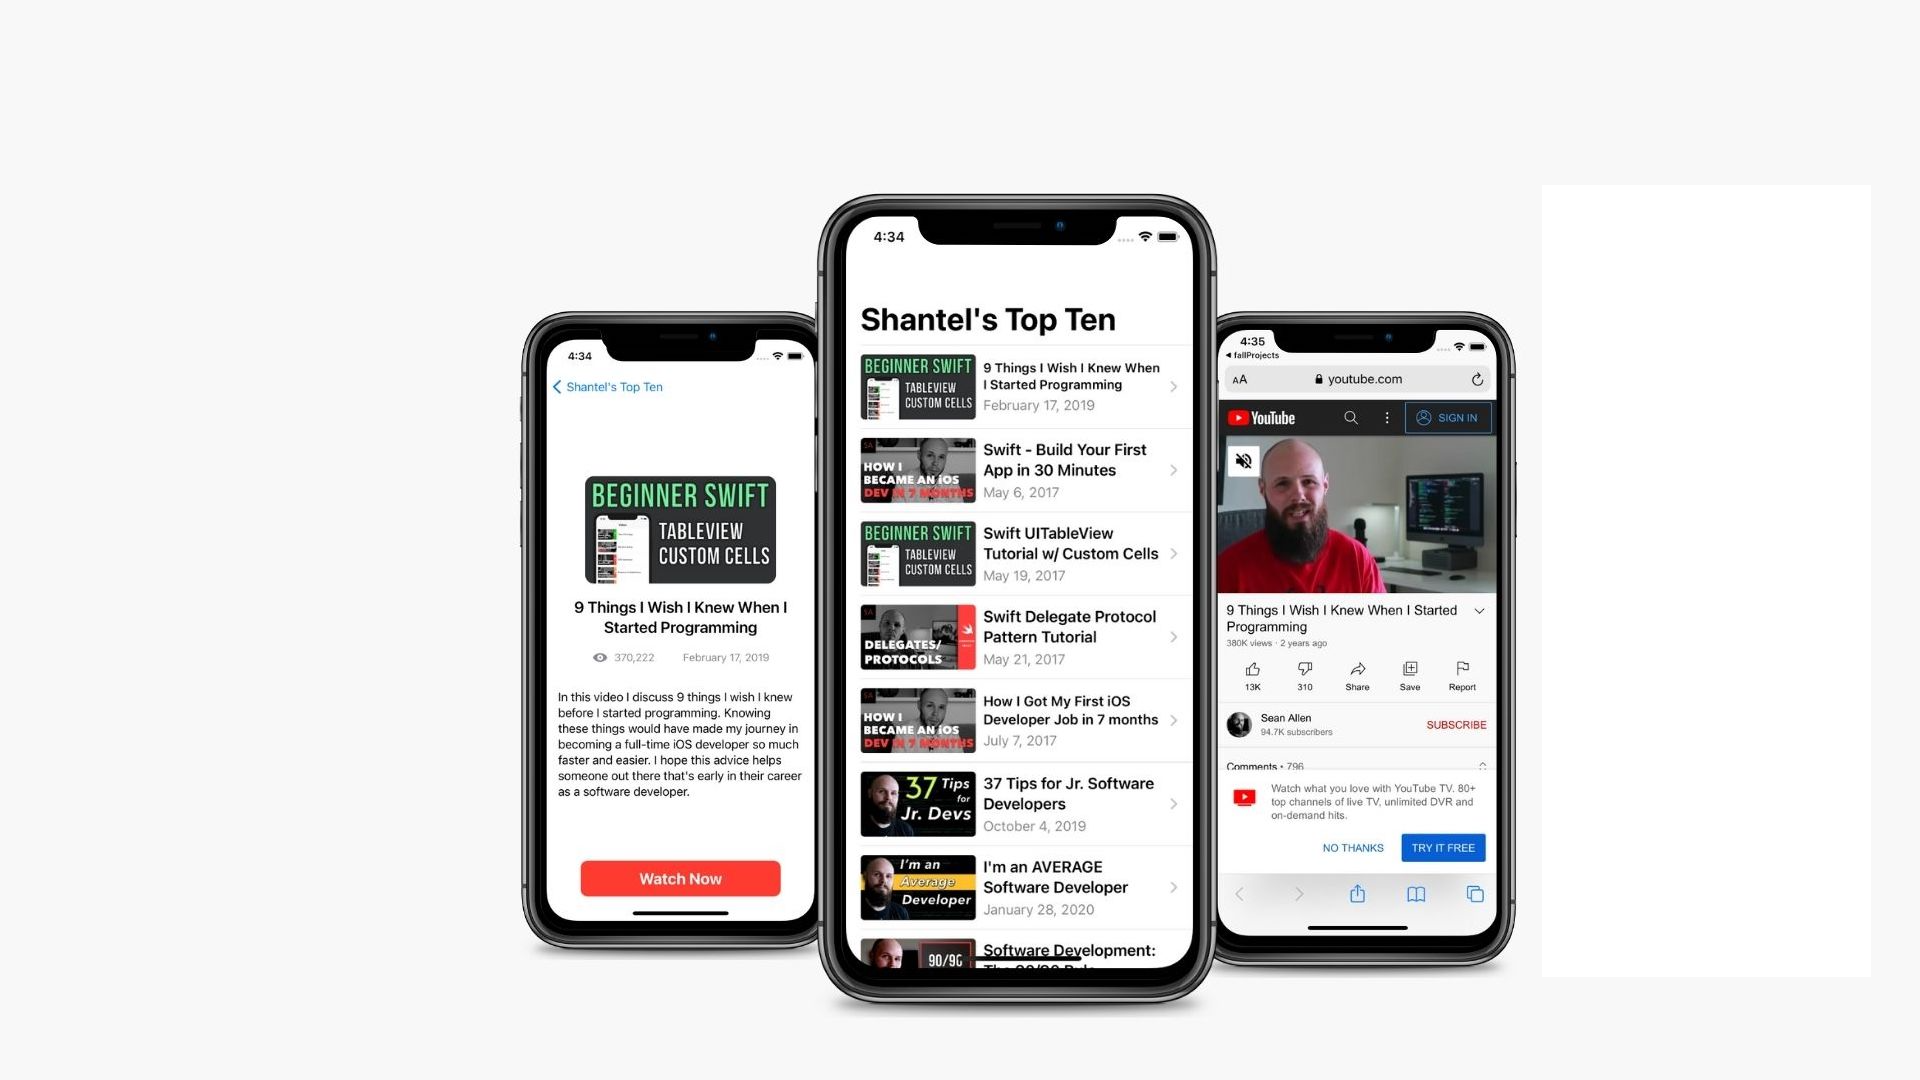
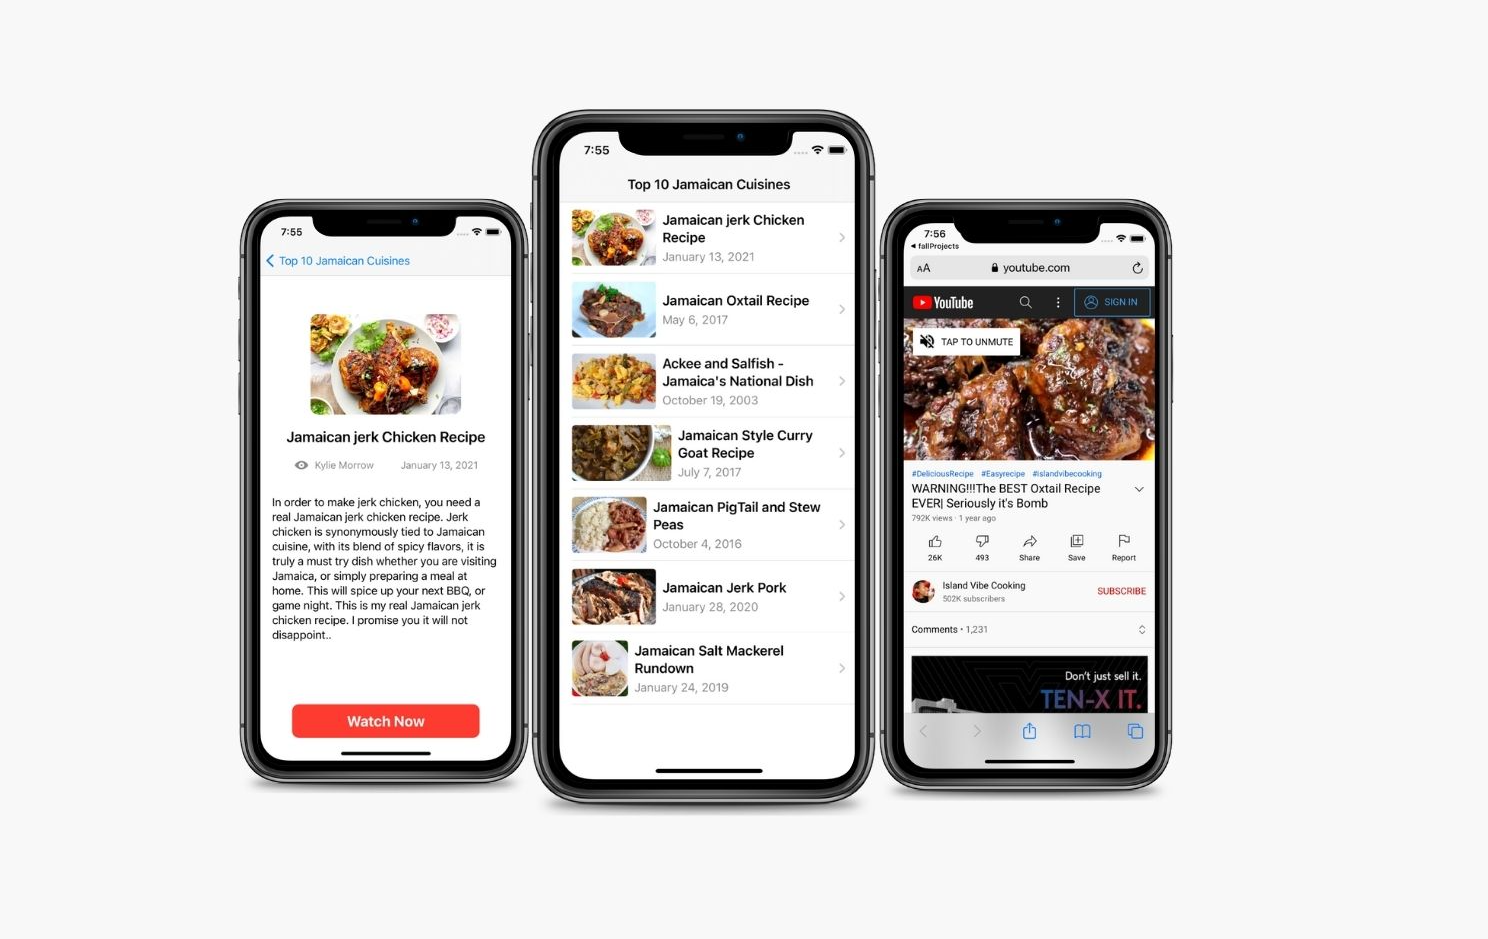
Chnages to iOS webpage and about me

Changed region(s): [[0.1546, 0.0927, 0.8038, 0.9574]]

diff --git a/index.html b/index.html
@@ -56,12 +56,27 @@
                 </div>
                 <div class="column right">
                     <div class="text">I'm Shantel T. and I'm a <span class="typing-2"></span></div>
-                    <p>I am currently a rising junior at Benedict College, pursuing a Bachelors's Degree in Computer Science with a minor in Business Administration. Over the years,
+                    <p>I am currently a rising junior at Benedict College, pursuing a Bachelors Degree in Computer Science with a minor in Business Administration. Over the years,
                       I have gained a vast knowledge of programming and interpersonal skills, which I will use on my journey to becoming a Software Engineer.</p>
                       <br>
-                      <div class="text">Awards and achievements</div>
-                      <p>I am currently a rising junior at Benedict College, pursuing a Bachelors's Degree in Computer Science with a minor in Business Administration. Over the years,
-                        I have gained a vast knowledge of programming and interpersonal skills, which I will use on my journey to becoming a Software Engineer.</p>
+                      <div class="text">Extracurricular Activities and Awards</div>
+                      <p>These are activities that I am currently involved in and around Benedict College.</p>
+                      <br>
+                        <ul >
+                            <li> Vice President of Benedict College International Student Association  </li>
+                            <li> Society of Women Engineers </li>
+                            <li> Google Developer Student Club</li>
+                            <li> Passport to College Mentor</li>
+                            <li> Tutor </li>
+                        </ul>
+                        <br>
+                    <div class="text">Awards and Achievements </div>
+                        <ul>
+                            <li> Benedict College Founders Scholarships  </li>
+                            <li> Honors Student Award </li>
+                            <li> President Trophy Recipient </li>
+                            <li> Grace Hopper Student Scholarship Recipient </li>
+                        </ul>
                     <a href="https://drive.google.com/file/d/1xG5BYpljiNQ9wy0NIwxiQ1RSCanWoxAw/view?usp=sharing">Download Resume</a>
                 </div>
             </div>
@@ -87,61 +102,62 @@
                             <span>python</span>
                             <!--span>70%</span-->
                         </div>
-                        <!--div class="line python"></div-->
+                        <div class="line python"></div>
                     </div>
 
                     <div class="bars">
                         <div class="info">
                             <span>Java</span>
-                            <!--span>50%</span-->
+                            <span>50%</span>
                         </div>
-                        <!--div class="line Java"></div-->
+                        <div class="line Java"></div>
                     </div>
 
                     <div class="bars">
                         <div class="info">
                             <span>C++</span>
-                            <!--span>70%</span-->
+                            <span>70%</span>
                         </div>
-                        <!--div class="line C"></div-->
+                        <div class="line C"></div>
                     </div>
                     <div class="bars">
                         <div class="info">
                             <span>JavaScript</span>
-                            <!--span>50%</span-->
+                            <span>50%</span>
                         </div>
-                        <!--div class="line js"></div-->
+                        <div class="line js"></div>
                     </div>
                     <div class="bars">
                         <div class="info">
                             <span>HTML</span>
-                            <!--span>70%</span-->
+                            <span>70%</span>
                         </div>
-                        <!--div class="line HTML"></div-->
+                        <div class="line HTML"></div>
                     </div>
-                    <div class="bars">
-                        <div class="info">
-                            <span>SwiftUI </span>
-                            <!--span>70%</span-->
-                        </div>
-                        <!--div class="line HTML"></div-->
-                    </div>
-                     <div class="bars">
-                        <div class="info">
-                            <span>Swift </span>
-                            <!--span>60%</span-->
-                        </div>
-                        <!--div class="line HTML"></div-->
-                    </div>
+
                     <div class="bars">
                         <div class="info">
                             <span>CSS</span>
-                            <!--span>70%</span-->
+                            <span>70%</span>
                         </div>
-                        <!--div class="line css"></div-->
+                        <div class="line css"></div>
+                    </div>
+                    <div class="bars">
+                        <div class="info">
+                            <span>Swift </span>
+                            <span>60%</span>
+                        </div>
+                        <div class="line HTML"></div>
+                    </div>
+
+                    <div class="bars">
+                        <div class="info">
+                            <span>SwiftUI </span>
+                            <span>70%</span>
+                        </div>
+                        <div class="line HTML"></div>
                     </div>
                 </div>
-
                 <div class="column left">
 
                 </div>
@@ -152,31 +168,31 @@
                     <div class="bars">
                         <div class="info">
                             <span>MySQL</span>
-                            <!--span>70%</span-->
+                            <span>70%</span>
                         </div>
-                        <!--div class="line sql"></div-->
+                        <div class="line sql"></div>
                     </div>
 
                     <div class="bars">
                         <div class="info">
                             <span>UX Design</span>
-                            <!--span>50%</span-->
+                            <span>50%</span>
                         </div>
-                        <!--div class="line ux"></div-->
+                        <div class="line ux"></div>
                     </div>
                     <div class="bars">
                         <div class="info">
                             <span>Django</span>
-                            <!--span >70%</span-->
+                            <span >70%</span>
                         </div>
-                        <!--div class="line dj"></div-->
+                        <div class="line dj"></div>
                     </div>
                     <div class="bars">
                         <div class="info">
                             <span>Junite</span>
-                            <!--span>20%</span-->
+                            <span>20%</span>
                         </div>
-                        <!--div class="line ju"></div-->
+                        <div class="line ju"></div>
                     </div>
 
                 </div>
@@ -193,9 +209,9 @@
                     <div class="box">
                         <i class="fas fa-code"></i>
                         <div class="text">iOS Development Projects</div>
-                        <p>This project utilizes Java and MySQL to create a website that allows users to track and manage their projects.</p>
+                        <p> This displays my current iOS Development projects, from weather app to cuisine App.</p>
                         <br>  <br>  <br>
-                        <a href="file:///Users/shantelthomas/Downloads/MyPortfolio/iOSApp.html#">View project</a>
+                        <a href="https://shantelat.github.io/MyPortfolio/iOSApp.html">View project</a>
                     </div>
                 </div>
                 <div class="card">

diff --git a/iOSApp.html b/iOSApp.html
@@ -21,7 +21,8 @@
         <div class="max-width">
             <div class="logo"><a href="#">iOS <span>Development</span></a></div>
             <ul class="menu">
-                <!--a href="https://shantelat.github.io/MyPortfolio/#projects">Back to Portfolio</a-->
+                <!--li><a href="#about" class="menu-btn">Weather App</a></li>
+                <li><a href="#abouttwo" class="menu-btn">Top Ten App</a></li-->
             </ul>
             <div class="menu-btn">
                 <i class="fas fa-bars"></i>
@@ -48,37 +49,32 @@
             <div class="about-content">
                 <div class="column right">
                     <div class="text">Weather App  <span class="typing-2"></span></div>
-                    <p>I am currently a rising junior at Benedict College, pursuing a Bachelors's Degree in Computer Science with a minor in Business Administration. Over the years,
-                      I have gained a vast knowledge of programming and interpersonal skills, which I will use on my journey to becoming a Software Engineer.</p>
+                    <p> This weather app displays a given city's current weather and temperature and gives the following week's forecast.
+                        The app allows for the option to change between light and dark mode.</p>
                       <br>
-                      <div class="text">Awards and achievements</div>
-                      <p>I am currently a rising junior at Benedict College, pursuing a Bachelors's Degree in Computer Science with a minor in Business Administration. Over the years,
-                        I have gained a vast knowledge of programming and interpersonal skills, which I will use on my journey to becoming a Software Engineer.</p>
-                    <a href="https://drive.google.com/file/d/1xG5BYpljiNQ9wy0NIwxiQ1RSCanWoxAw/view?usp=sharing">Download Resume</a>
+                    <a href="#about">Watch Demo</a>
                 </div>
                 <div class="column left">
-                    <img src="images/Ten.png" alt="">
+                    <img src="images/5.jpg" alt="">
                 </div>
             </div>
         </div>
     </section>
 
-      <section class="about" id="about">
+      <section class="abouttwo" id="abouttwo">
         <div class="max-width">
-            <h2 class="title">Weather App</h2>
-            <div class="about-content">
+            <h2 class="title">Top 10 Jamaican Cuisines</h2>
+            <div class="abouttwo-content">
                 <div class="column left">
-                    <img src="images/Ten.png" alt="">
+                    <img src="images/ten.jpg" alt="">
                 </div>
                 <div class="column right">
-                    <div class="text">Weather App  <span class="typing-2"></span></div>
-                    <p>I am currently a rising junior at Benedict College, pursuing a Bachelors's Degree in Computer Science with a minor in Business Administration. Over the years,
-                      I have gained a vast knowledge of programming and interpersonal skills, which I will use on my journey to becoming a Software Engineer.</p>
+                    <div class="text">Shantel's Top 10 Jamaican Cuisines App  <span class="typing-2"></span></div>
+                    <p>  This is a meal recommendation app that displays Shantel's top ten recommended Jamaican cuisine.
+                        Once you click on each meal, it will populate a page the shares more about each meal, including
+                        a link to a Youtube tutorial on how to prepare each meal.</p>
                       <br>
-                      <div class="text">Awards and achievements</div>
-                      <p>I am currently a rising junior at Benedict College, pursuing a Bachelors's Degree in Computer Science with a minor in Business Administration. Over the years,
-                        I have gained a vast knowledge of programming and interpersonal skills, which I will use on my journey to becoming a Software Engineer.</p>
-                    <a href="https://drive.google.com/file/d/1xG5BYpljiNQ9wy0NIwxiQ1RSCanWoxAw/view?usp=sharing">Download Resume</a>
+                    <a href="#abouttwo">Watch Demo</a>
                 </div>
 
             </div>

diff --git a/style2.css b/style2.css
@@ -34,10 +34,11 @@ section{
     padding: 0 80px;
     margin: auto;
 }
-.about, .projects, .skills, .teams, .contact, footer{
+.about, .abouttwo, .projects, .skills, .teams, .contact, footer{
     font-family: 'Poppins', sans-serif;
 }
 .about .about-content,
+.abouttwo .abouttwo-content,
 .projects .serv-content,
 .skills .skills-content,
 .contact .contact-content{
@@ -51,8 +52,8 @@ section .title{
     text-align: center;
     font-size: 40px;
     font-weight: 500;
-    margin-bottom: 60px;
-    padding-bottom: 20px;
+    margin-bottom: 10px;
+    padding-bottom: 10px;
     font-family: 'Ubuntu', sans-serif;
 }
 
@@ -109,22 +110,14 @@ section .title::after{
 .navbar.sticky .logo a span{
     color: black;
 }
-/*
-.navbar .menu li{
-    list-style: none;
-    display: inline-block;
-}
+
 .navbar .menu li a{
-    display: inline-block;
-    background: #FA7A4A !important;
-    color: black !important;
-    font-size: 20px;
-    padding: 12px 36px;
-    margin-top: 20px;
-    font-weight: 400;
-    border-radius: 6px;
-    border: 2px solid #FA7A4A;
-    transition: all 0.3s ease;
+    display: block;
+    color: red;
+    font-size: 18px;
+    font-weight: 500;
+    margin-left: 25px;
+    transition: color 0.3s ease;
 }
 .navbar .menu li a:hover{
     color: black !important;
@@ -258,12 +251,58 @@ section .title::after{
     font-size: 20px;
     font-weight: 500;
     padding: 10px ;
-    margin-top: 20px;
+    margin-top: 5px;
     border-radius: 6px;
     border: 2px solid #BCADD6;
     transition: all 0.3s ease;
 }
 .about .about-content .right a:hover{
+    color: #BCADD6;
+    background: none;
+}
+
+/****** Second App ********/
+
+.abouttwo .title::after{
+    content: "";
+}
+.abouttwo .abouttwo-content .left{
+    width: 50%;
+}
+.abouttwo .abouttwo-content .left img{
+    height: 650px;
+    width: 650px;
+    object-fit: cover;
+    border-radius: 6px;
+}
+
+.abouttwo .abouttwo-content .right{
+    width: 35%;
+}
+.abouttwo .abouttwo-content .right .text{
+    font-size: 25px;
+    font-weight: 600;
+    margin-bottom: 10px;
+}
+.abouttwo .abouttwo-content .right .text span{
+    color: #FA7A4A;
+}
+.abouttwo .abouttwo-content .right p{
+    text-align: justify;
+}
+.abouttwo .abouttwo-content .right a{
+    display: inline-block;
+    background: #BCADD6;
+    color: black;
+    font-size: 20px;
+    font-weight: 500;
+    padding: 10px ;
+    margin-top: 5px;
+    border-radius: 6px;
+    border: 2px solid #BCADD6;
+    transition: all 0.3s ease;
+}
+.abouttwo .abouttwo-content .right a:hover{
     color: #BCADD6;
     background: none;
 }
@@ -578,7 +617,12 @@ footer span a:hover{
         width: 200px;
     }
 }
-
+@media (max-width: 1004px) {
+    .abouttwo .abouttwo-content .left img{
+        height: 200px;
+        width: 200px;
+    }
+}
 @media (max-width: 991px) {
     .max-width{
         padding: 0 50px;
@@ -610,9 +654,8 @@ footer span a:hover{
         display: block;
     }
     .navbar .menu li a{
-        display: inline-block;
+        display: inline-block !important;
         margin: 20px 0;
-        font-size: 25px;
     }
     .home .home-content .text-2{
         font-size: 50px;
@@ -627,6 +670,7 @@ footer span a:hover{
     .max-width{
         max-width: 930px;
     }
+    /*
     .about .about-content .column{
         width: 100%;
     }
@@ -637,7 +681,7 @@ footer span a:hover{
     }
     .about .about-content .right{
         flex: 100%;
-    }
+    }*/
     .projects .serv-content .card{
         width: calc(50% - 10px);
         margin-bottom: 20px;
@@ -675,6 +719,7 @@ footer span a:hover{
         font-size: 27px;
     }
     .about .about-content .right .text,
+    .abouttwo .abouttwo-content .right .text,
     .skills .skills-content .left .text{
         font-size: 19px;
     }
